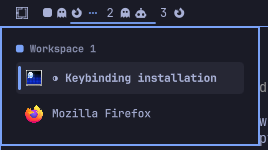
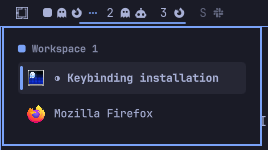
Add a scratchpad pill
While special:scratchpad holds windows, a pill labelled S with a glyph per
stashed window sits after the workspace numbers on every bar. It is dimmed
until the stash is open on that bar's monitor and clicking it toggles the
stash there, via the same dispatch as the stock SUPER+S binding.

Settings: showScratchpad (true), scratchpadName (special:scratchpad),
scratchpadLabel (S). Ported from TheTrueFerret's decent-workspaces (MIT).
New preview/screenshot showing the workspace 1 picker with the pill.

diff --git a/Workspaces.qml b/Workspaces.qml
@@ -19,6 +19,13 @@ BarWidget {
   // Keep 1-5 pinned on the bar whether or not they hold windows (the old
   // behaviour). Off by default: only occupied and on-screen workspaces show.
   readonly property bool showEmpty: root.setting("showEmpty", false)
+  // A pill for Hyprland's special workspace while something is stashed in
+  // it (SUPER+ALT+S parks a window there, SUPER+S brings it back). It shows
+  // on every bar, since the stash is one global thing rather than something
+  // a monitor owns; it lights up on the monitor currently displaying it.
+  readonly property bool showScratchpad: root.setting("showScratchpad", true)
+  readonly property string scratchpadName: root.setting("scratchpadName", "special:scratchpad")
+  readonly property string scratchpadLabel: root.setting("scratchpadLabel", "S")
 
   // --- keeping Hyprland's view fresh ---------------------------------------
   // Quickshell does not refetch toplevels or workspaces on its own, so window
@@ -30,6 +37,9 @@ BarWidget {
 
   readonly property var windowEvents: ["openwindow", "closewindow", "movewindow", "movewindowv2", "windowtitle", "windowtitlev2", "activewindow", "activewindowv2", "urgent"]
   readonly property var workspaceEvents: ["workspace", "workspacev2", "createworkspace", "createworkspacev2", "destroyworkspace", "destroyworkspacev2", "moveworkspace", "moveworkspacev2", "focusedmon", "configreloaded"]
+  // Toggling the scratchpad open or shut changes which monitor is showing
+  // it, which only the monitors payload carries.
+  readonly property var specialEvents: ["activespecial", "activespecialv2"]
 
   Connections {
     target: Hyprland
@@ -41,8 +51,51 @@ BarWidget {
       } else if (root.workspaceEvents.indexOf(name) !== -1) {
         Hyprland.refreshWorkspaces()
         root.revision++
+      } else if (root.specialEvents.indexOf(name) !== -1) {
+        Hyprland.refreshWorkspaces()
+        Hyprland.refreshMonitors()
+        root.revision++
       }
     }
+  }
+
+  // --- scratchpad -----------------------------------------------------------
+  // One bar surface exists per monitor, so the widget reads its own screen
+  // off the window it was instantiated into to tell whether the stash is
+  // open *here*.
+  readonly property var barWindow: root.QsWindow ? root.QsWindow.window : null
+  readonly property string screenName: barWindow && barWindow.screen ? String(barWindow.screen.name || "") : ""
+
+  // Hyprland keeps the special workspace in the list for as long as it
+  // holds windows, whether or not it is currently toggled open.
+  readonly property var scratchpadWorkspace: {
+    var _ = root.revision
+    if (!root.showScratchpad) return null
+    var values = Hyprland.workspaces.values
+    for (var i = 0; i < values.length; i++) {
+      if (String(values[i].name || "") === root.scratchpadName) return values[i]
+    }
+    return null
+  }
+
+  readonly property bool scratchpadVisible: root.showScratchpad && root.hasWindows(root.scratchpadWorkspace)
+
+  readonly property bool scratchpadOpen: {
+    var _ = root.revision
+    var mons = Hyprland.monitors.values
+    for (var i = 0; i < mons.length; i++) {
+      if (String(mons[i].name) !== root.screenName) continue
+      var ipc = mons[i].lastIpcObject
+      var special = ipc ? ipc.specialWorkspace : null
+      return !!special && String(special.name || "") === root.scratchpadName
+    }
+    return false
+  }
+
+  function toggleScratchpad() {
+    if (!root.bar) return
+    var name = root.scratchpadName.indexOf("special:") === 0 ? root.scratchpadName.slice(8) : root.scratchpadName
+    root.bar.run("hyprctl dispatch " + Util.shellQuote('hl.dsp.workspace.toggle_special("' + name + '")'))
   }
 
   function workspaceById(id) {
@@ -286,7 +339,7 @@ BarWidget {
     id: grid
     anchors.fill: parent
     anchors.rightMargin: root.trailingGap
-    columns: root.vertical ? 1 : root.workspaceGroups().length
+    columns: root.vertical ? 1 : root.workspaceGroups().length + (root.scratchpadVisible ? 1 : 0)
     columnSpacing: root.vertical ? 0 : Style.space(1)
     rowSpacing: root.vertical ? Style.space(2) : 0
 
@@ -376,6 +429,24 @@ BarWidget {
           }
         }
       }
+    }
+
+    // The scratchpad sits after the numbers, as the place windows go when
+    // they are not on any of them. Click toggles the stash on this monitor.
+    WidgetButton {
+      id: scratchpadButton
+      visible: root.scratchpadVisible
+      readonly property string icons: root.vertical ? "" : root.iconsFor(root.scratchpadWorkspace)
+
+      bar: root.bar
+      text: icons !== "" ? (root.scratchpadLabel !== "" ? root.scratchpadLabel + " " + icons : icons) : root.scratchpadLabel
+      opacity: root.scratchpadOpen ? 1 : 0.5
+      horizontalMargin: 6
+      verticalPadding: 6
+      fixedWidth: root.vertical ? root.barSize : -1
+      fixedHeight: root.barSize
+      tooltipText: "Scratchpad"
+      onPressed: function() { root.toggleScratchpad() }
     }
   }
 

diff --git a/README.md b/README.md
@@ -95,6 +95,9 @@ omarchy bar set eduard.workspaces <key> <value> --json
 | `showIcons` | `true` | Draw a glyph per open window beside the number. |
 | `maxIcons` | `0` | Cap glyphs per workspace, collapsing the rest to `+N`. `0` means no cap. |
 | `showEmpty` | `false` | Keep workspaces 1-5 pinned on the bar whether or not they hold windows. |
+| `showScratchpad` | `true` | Show a pill for the scratchpad while it holds windows. |
+| `scratchpadName` | `special:scratchpad` | Which special workspace that pill tracks. |
+| `scratchpadLabel` | `S` | Text on the scratchpad pill. Set `""` for icons only. |
 
 Icons are resolved in `IconRules.js`, an ordered list of `{ pattern, icon }`
 where the pattern is a case-insensitive regex tested against the window title
@@ -104,6 +107,15 @@ above generic class rules. To find a window's class:
 ```
 hyprctl clients -j | jq -r '.[] | "\(.class)\t\(.title)"'
 ```
+
+### The scratchpad
+
+`SUPER + ALT + S` stashes a window in `special:scratchpad` and `SUPER + S`
+brings it back. While the stash holds windows, a pill labelled `S` sits after
+the workspace numbers with a glyph per stashed window. It is dimmed until the
+stash is open on that bar's monitor, and clicking it toggles the stash there.
+It shows on every bar, because the scratchpad is one global stash rather than
+something a monitor owns.
 
 ## Multi-monitor workspace linking
 
@@ -177,7 +189,8 @@ keybinding, revert that block in `~/.config/hypr/bindings.lua` by hand.
 
 ## Credits
 
-The per-window icons, the hidden-empty-workspace behaviour and `IconRules.js`
+The per-window icons, the hidden-empty-workspace behaviour, the scratchpad pill
+and `IconRules.js`
 are taken from [decent-workspaces](https://github.com/TheTrueFerret/omarchy-decent-workspaces)
 by TheTrueFerret (MIT), whose icon map is in turn adapted from `saif.workspaces`
 by Saif Omar (MIT).
